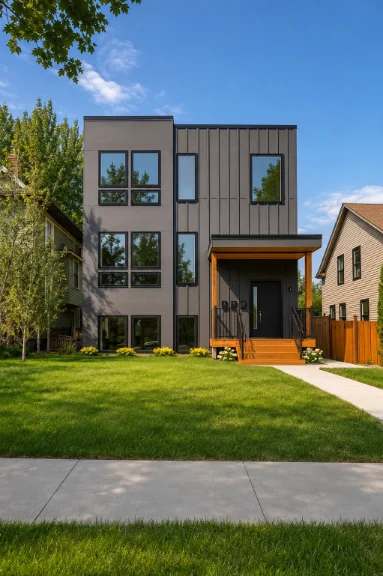
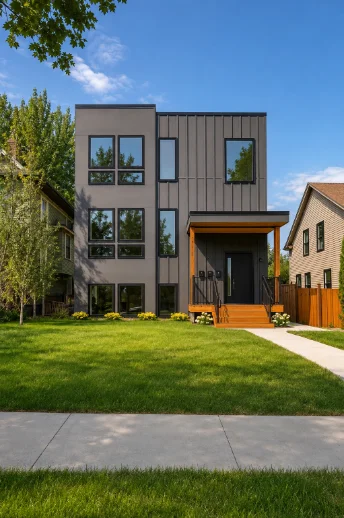
Update Dale project photos
New exterior photo, a new dedicated dining room shot, and the
kitchen/great-room photos reassigned from photos previously used
elsewhere (the old sitewide hero and the now-unused contact page
photo, which belonged to this project). Dale now has its full set
of 4 photos.

diff --git a/scripts/main.js b/scripts/main.js
@@ -30,8 +30,9 @@ const PROJECTS = {
     category: "Triplex",
     photos: [
       { src: "assets/projects/dale/exterior.webp", alt: "Dale exterior" },
-      { src: "assets/projects/dale/kitchen.webp", alt: "Dale kitchen and living room" },
-      { src: "assets/projects/dale/dining.webp", alt: "Dale dining nook" },
+      { src: "assets/projects/dale/great-room.webp", alt: "Dale living, dining, and kitchen great room" },
+      { src: "assets/projects/dale/kitchen.webp", alt: "Dale kitchen island" },
+      { src: "assets/projects/dale/dining.webp", alt: "Dale dining room" },
     ],
   },
   burr: {
